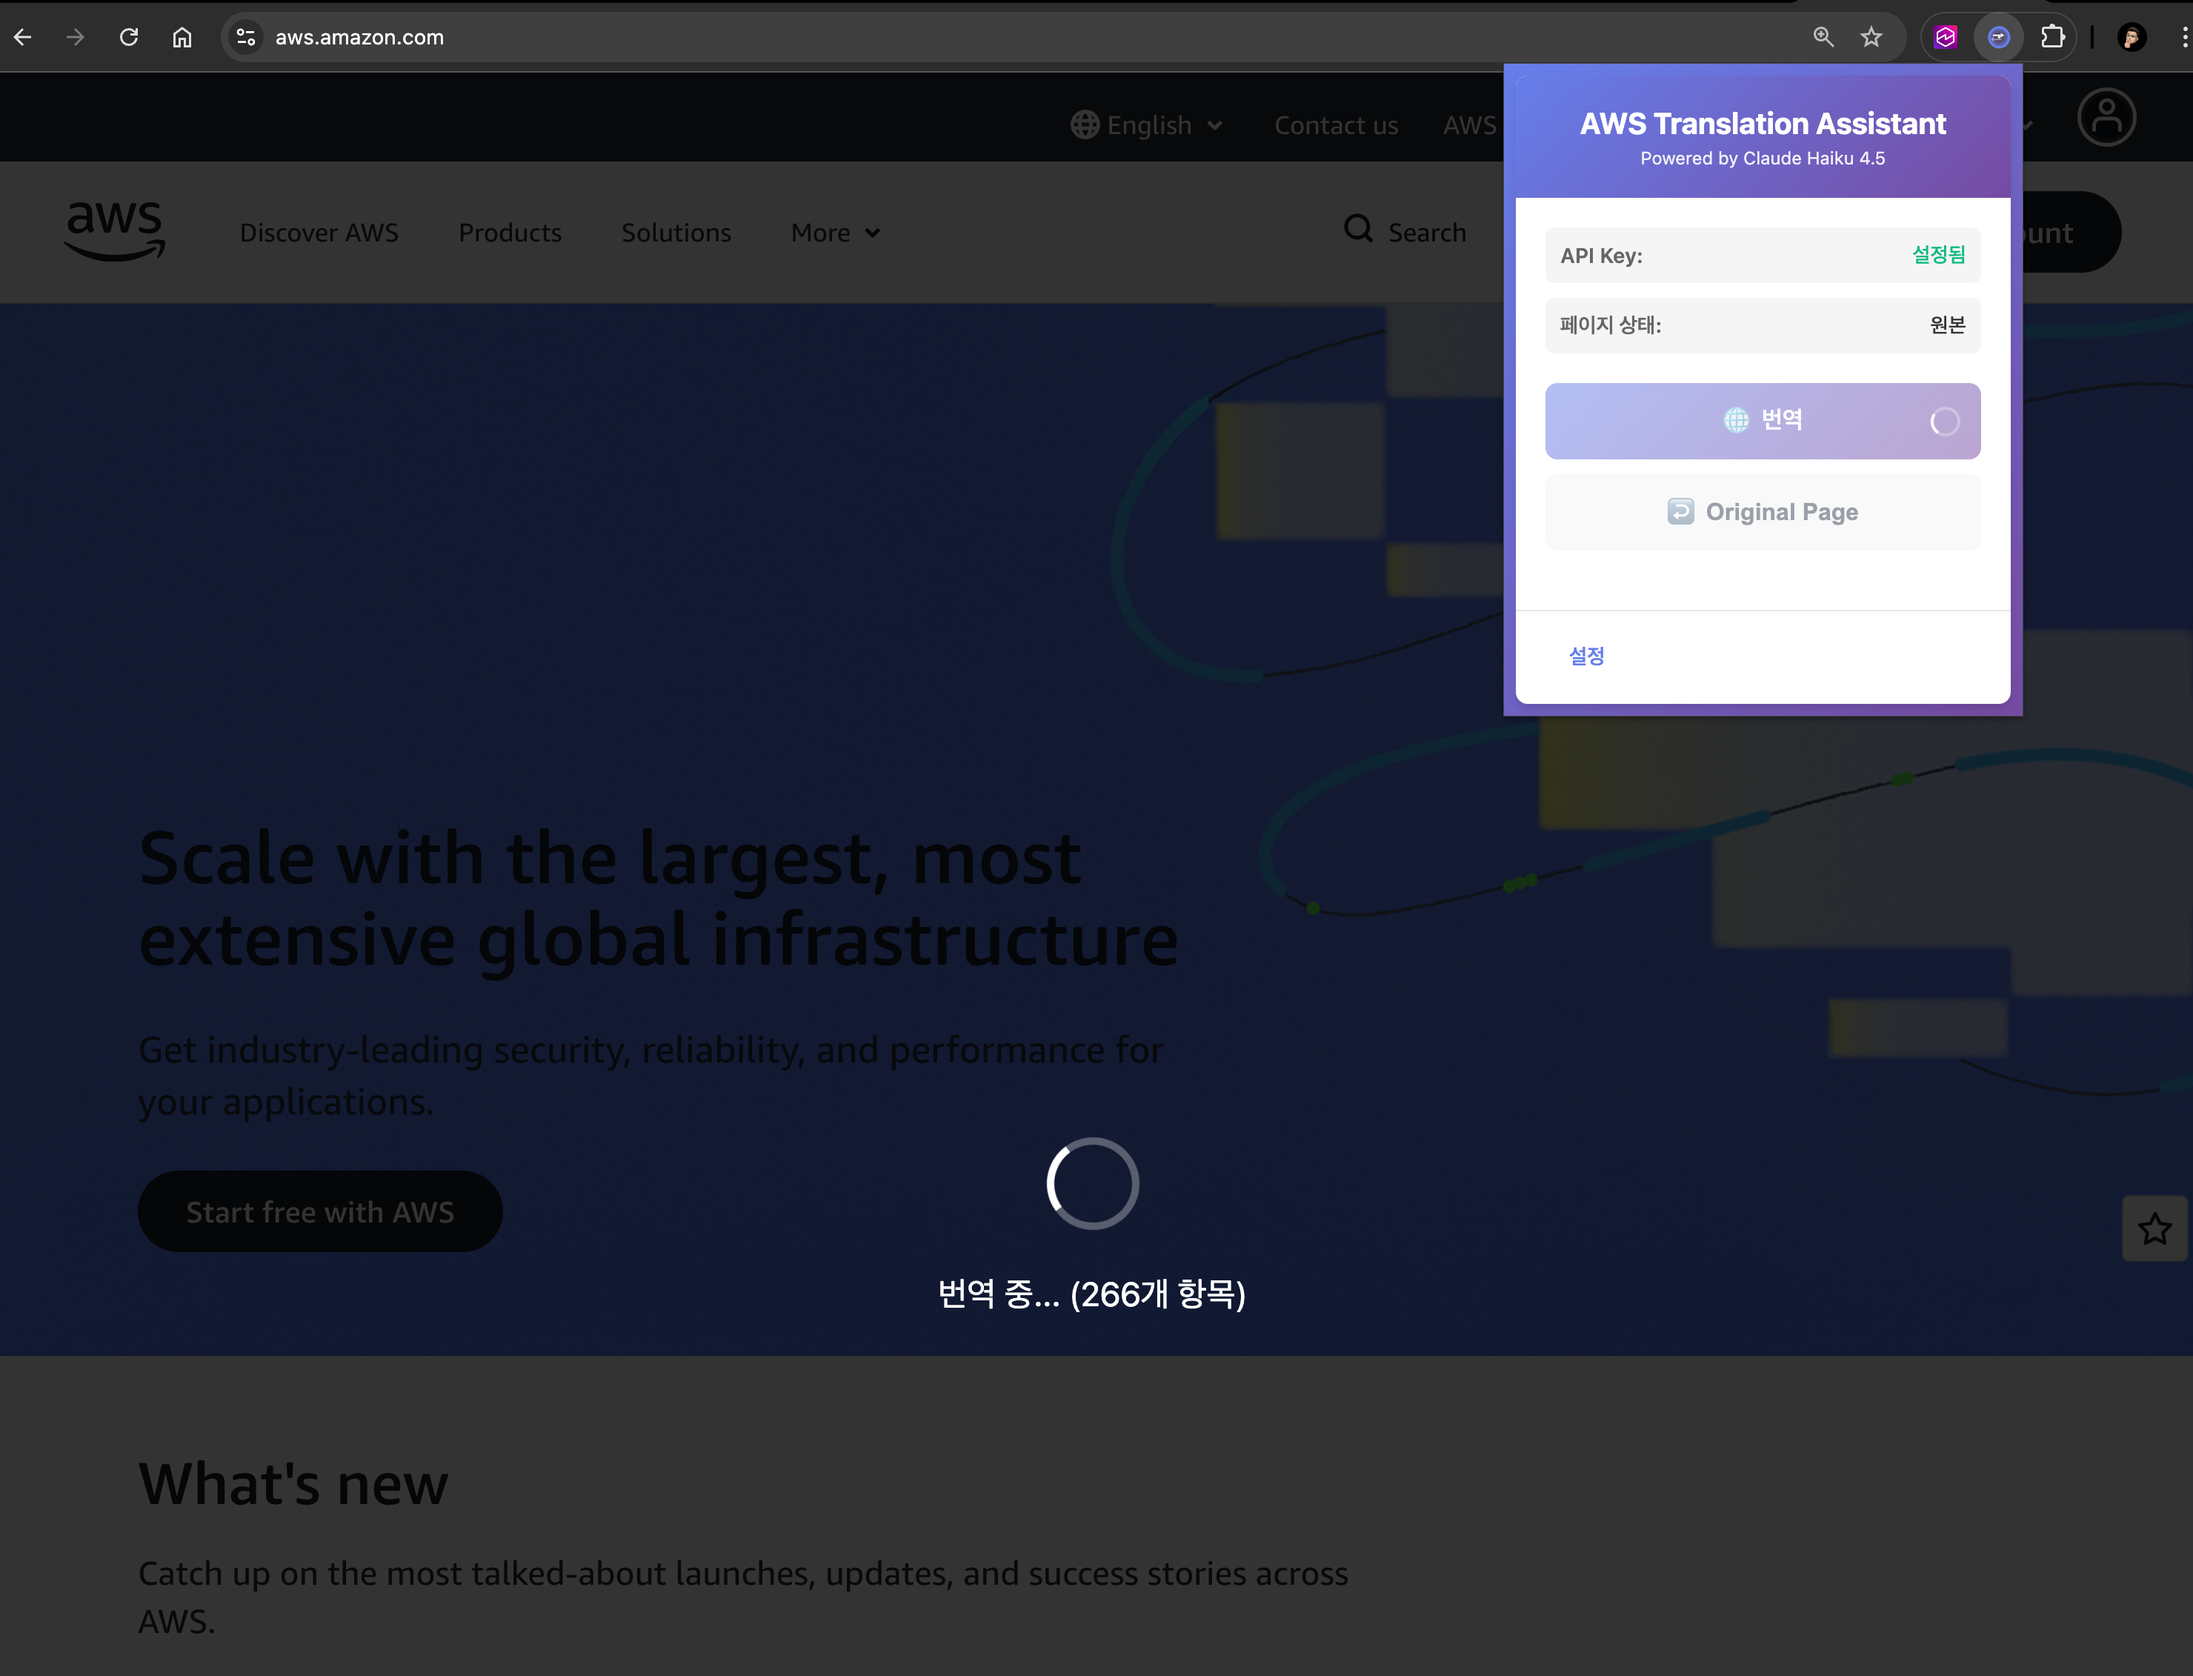
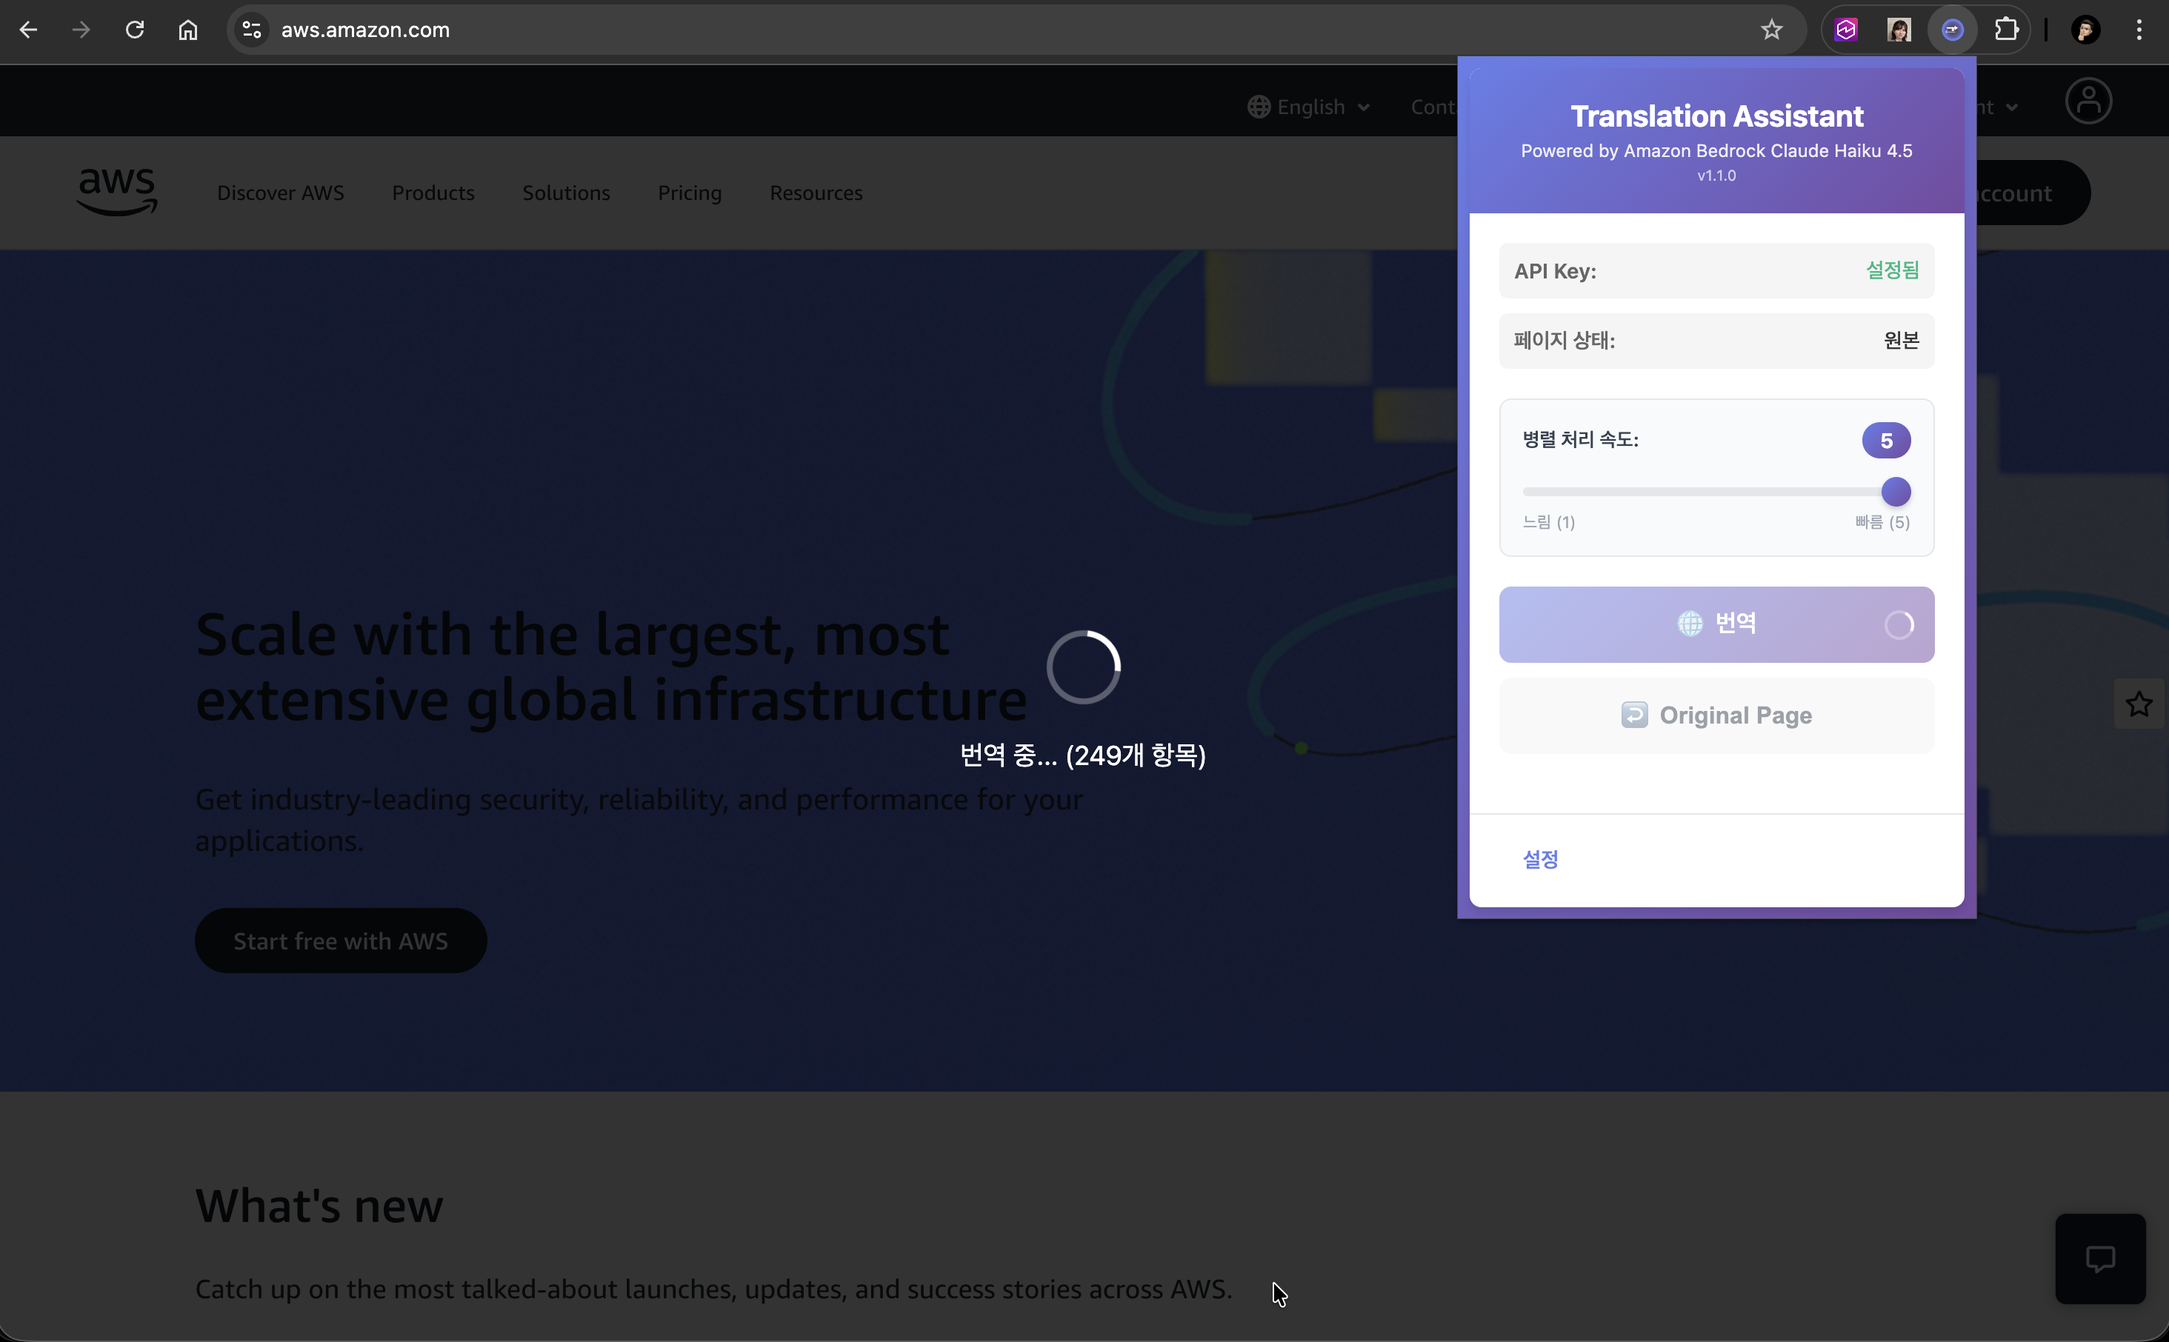
Update feature screenshots and README
- Update feature03.png with concurrency slider UI
- Update feature04.png with latest UI changes
- Update README with modified screenshots
- Add *_old.* pattern to .gitignore for backup files

diff --git a/README.md b/README.md
@@ -1,4 +1,4 @@
-# AWS Translation Assistant Chrome Extension
+# Translation Assistant Chrome Extension
 
 Amazon Bedrock Claude Haiku 4.5 기반 웹페이지 번역 Chrome Extension
 
